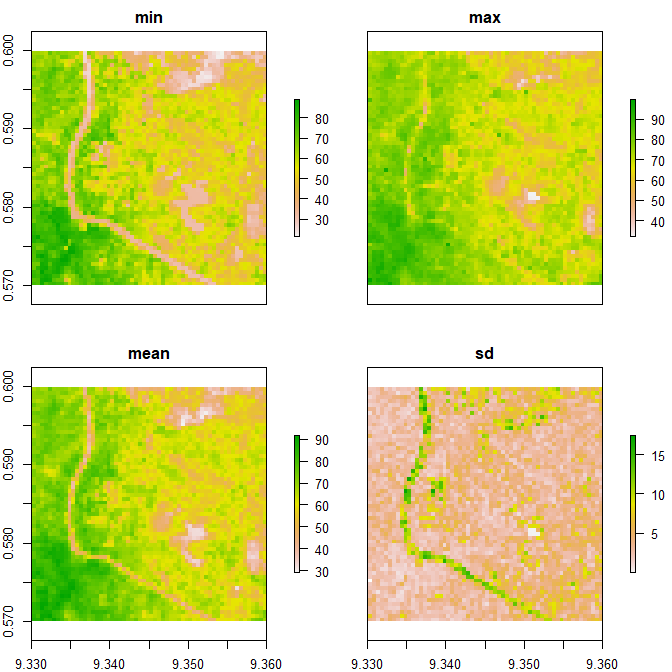
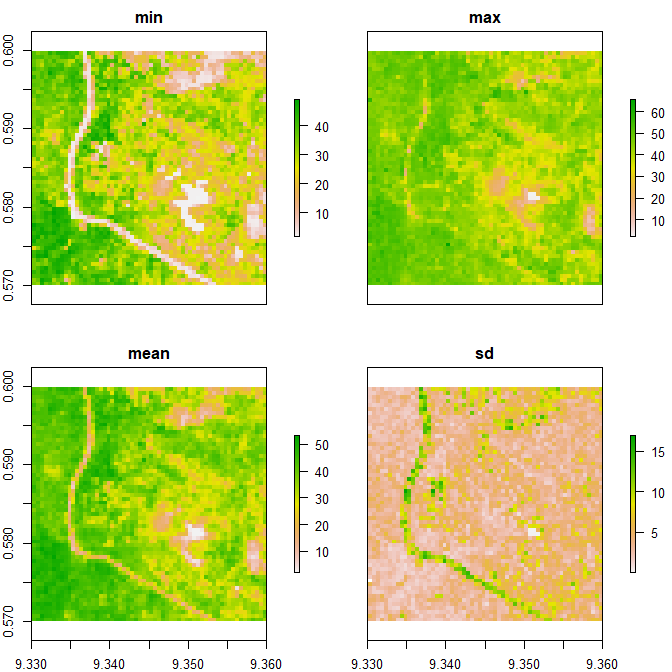
updates

diff --git a/README.md b/README.md
@@ -136,7 +136,7 @@ head(RH100metrics)
 
 ```r
 #' Computing serie of LVIS metrics
-mlvis<-GridMetrics(level2_spdf=level2_spdf,func=~mySetOfMetrics(ZT), res=0.0005)
+mlvis<-GridMetrics(level2_spdf=level2_spdf,func=~mySetOfMetrics(RH100), res=0.0005)
 plot(mlvis)
 ```
 ![](https://github.com/carlos-alberto-silva/rLVIS/blob/master/readme/Fig_4.png)
